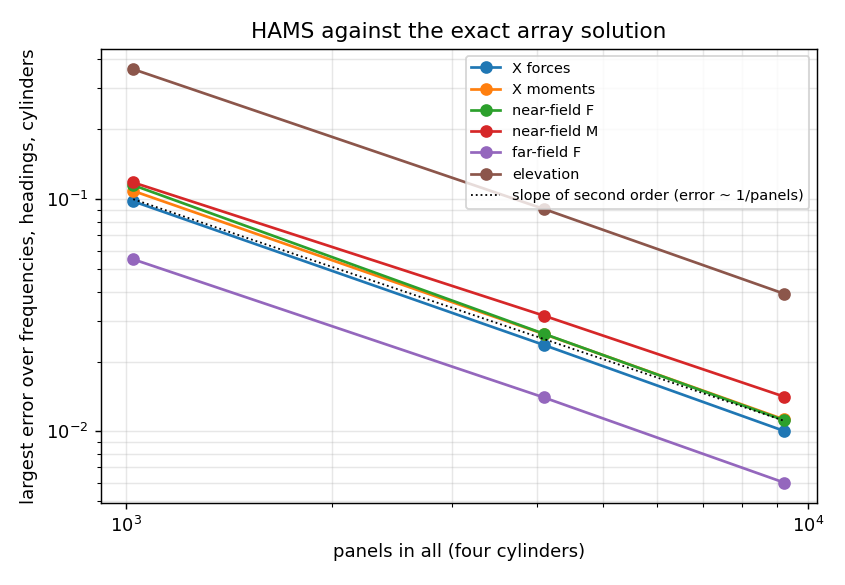
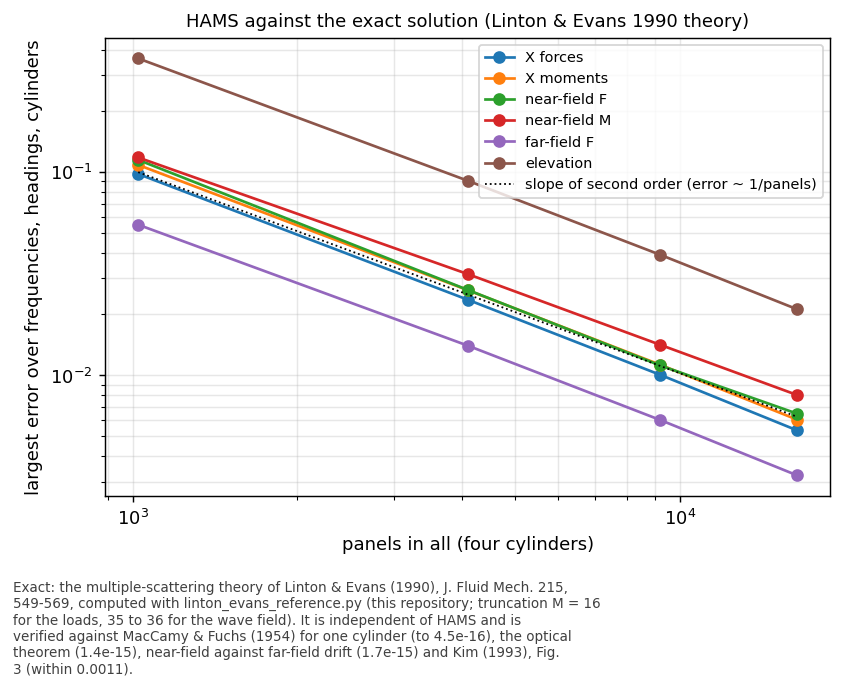
docs: Linton & Evans fourth mesh, grid field error, source of "exact"
m4 (16384 panels) continues the second-order convergence (0.54 %
exciting force, 0.32 % array drift). The wave elevation on a 1.5 m grid
(l_square_field_*) as error maps on one log scale. Every figure names
the exact reference (Linton & Evans 1990 theory computed with
linton_evans_reference.py) in its legend and a footnote with its
truncation and checks.

diff --git a/pre_postprocessing_python/SecondOrder/linton_evans_reference.py b/pre_postprocessing_python/SecondOrder/linton_evans_reference.py
@@ -204,6 +204,23 @@ FREQUENCIES, HEADINGS, FIELD_POINTS = _case_constants()
 LOAD_ORDER = 16
 
 
+# What "exact" is, in every figure: the legend names the method, the footnote (exact_note) its source and checks
+EXACT_LEG = "exact: Linton & Evans (1990) theory, linton_evans_reference.py"
+EXACT_NOTE = ("Exact: the multiple-scattering theory of Linton & Evans (1990), J. Fluid Mech. 215, 549-569, computed with "
+              "linton_evans_reference.py (this repository; truncation M = 16 for the loads, 35 to 36 for the wave field). It is "
+              "independent of HAMS and is verified against MacCamy & Fuchs (1954) for one cylinder (to 4.5e-16), the optical "
+              "theorem (1.4e-15), near-field against far-field drift (1.7e-15) and Kim (1993), Fig. 3 (within 0.0011).")
+
+
+def exact_note(fig):
+    """Add EXACT_NOTE under the figure, wrapped to its width (saved with bbox_inches = tight, so it is kept)."""
+    import textwrap
+    width = int(fig.get_size_inches()[0] * 13)
+    fig.text(0.01, -0.005, "\n".join(textwrap.wrap(EXACT_NOTE, width)), fontsize=7.5, va="top", ha="left",
+             color="0.25")
+
+
+
 def layout(name):
     spec = LAYOUTS[name]
     return Array(spec["centres"], spec["radii"], spec["depth"])
@@ -980,10 +997,10 @@ def plot(results, out, ref_rows):
                 for r, idx in enumerate((1, 2)):
                     ax = axes[r, j]
                     if kind == "X":
-                        ax.plot(ka, np.abs(X[:, j, idx - 1]), "k-", lw=1.2, label="exact")
+                        ax.plot(ka, np.abs(X[:, j, idx - 1]), "k-", lw=1.2, label=EXACT_LEG)
                         label = "|X_%d| / (rho g A) [m^2]" % idx
                     else:
-                        ax.plot(ka, D[:, j, idx - 1], "k-", lw=1.2, label="exact")
+                        ax.plot(ka, D[:, j, idx - 1], "k-", lw=1.2, label=EXACT_LEG)
                         ax.axhline(0.0, color="0.6", lw=0.6)
                         label = "mean F_%s / (rho g A^2) [m]" % "xy"[idx - 1]
                     for mi, (name, data) in enumerate(hams):
@@ -1004,14 +1021,15 @@ def plot(results, out, ref_rows):
             fig.tight_layout()
             path = os.path.join(out, "le_%s_beta%d.png" % ("exciting_force" if kind == "X" else "drift_per_cylinder",
                                                             heading))
-            fig.savefig(path, dpi=130)
+            exact_note(fig)
+            fig.savefig(path, dpi=130, bbox_inches="tight")
             plt.close(fig)
             written.append(path)
         fig, axes = plt.subplots(1, 2, figsize=(11, 4))
         for r in range(2):
             ax = axes[r]
-            ax.plot(ka, F[:, r], "k-", lw=1.2, label="exact far-field (Kochin)")
-            ax.plot(ka, D[:, :, r].sum(axis=1), "k:", lw=1.0, label="exact near-field, summed")
+            ax.plot(ka, F[:, r], "k-", lw=1.2, label=EXACT_LEG + ", far-field (Kochin)")
+            ax.plot(ka, D[:, :, r].sum(axis=1), "k:", lw=1.0, label="same theory, near-field summed over the cylinders")
             for mi, (name, data) in enumerate(hams):
                 xs, ys = _hams_points(data[2], r + 1, heading, h, a)
                 ax.plot(xs, ys, markers[mi % 4], ms=4, mfc="none", label=name + " far-field")
@@ -1022,7 +1040,8 @@ def plot(results, out, ref_rows):
         fig.suptitle("Four bottom-mounted cylinders, heading %g deg: mean drift of the array (MeanDriftMomentum.8)" % heading)
         fig.tight_layout()
         path = os.path.join(out, "le_drift_array_beta%d.png" % heading)
-        fig.savefig(path, dpi=130)
+        exact_note(fig)
+        fig.savefig(path, dpi=130, bbox_inches="tight")
         plt.close(fig)
         written.append(path)
     return written + plot_convergence(results, out, ref_rows)
@@ -1057,10 +1076,11 @@ def plot_convergence(results, out, ref_rows):
     ax.set_ylabel("largest error over frequencies, headings, cylinders")
     ax.grid(alpha=0.3, which="both")
     ax.legend(fontsize=8)
-    ax.set_title("HAMS against the exact array solution")
+    ax.set_title("HAMS against the exact solution (Linton & Evans 1990 theory)", fontsize=10)
     fig.tight_layout()
     path = os.path.join(out, "le_convergence.png")
-    fig.savefig(path, dpi=130)
+    exact_note(fig)
+    fig.savefig(path, dpi=130, bbox_inches="tight")
     plt.close(fig)
     return [path]
 
@@ -1092,10 +1112,11 @@ def plot_reference(out):
         ax.set_title("omega = %.2f rad/s, k a = %.2f, heading 45 deg" % (omega, sol.k * arr.radii[0]))
         ax.set_xlabel("x [m]")
         ax.set_ylabel("y [m]")
-    fig.suptitle("Exact wave field around the four cylinders (+: the HAMS field points)")
+    fig.suptitle("Exact wave field around the four cylinders (Linton & Evans 1990 theory; +: the HAMS field points)")
     fig.tight_layout()
     path = os.path.join(out, "le_reference_field.png")
-    fig.savefig(path, dpi=130)
+    exact_note(fig)
+    fig.savefig(path, dpi=130, bbox_inches="tight")
     plt.close(fig)
     written.append(path)
     omegas = np.linspace(0.36, 1.95, 160)
@@ -1120,7 +1141,8 @@ def plot_reference(out):
     fig.suptitle("Exact loads per cylinder in the square array, against one cylinder alone (MacCamy-Fuchs)")
     fig.tight_layout()
     path = os.path.join(out, "le_reference_loads.png")
-    fig.savefig(path, dpi=130)
+    exact_note(fig)
+    fig.savefig(path, dpi=130, bbox_inches="tight")
     plt.close(fig)
     written.append(path)
     fx, fy = kim_fig3()
@@ -1128,7 +1150,7 @@ def plot_reference(out):
     n = np.arange(1, 20)
     for ax, ref, pub, label in ((axes[0], fx, KIM_FIG3_X, "|F_x|"), (axes[1], fy, KIM_FIG3_Y, "|F_y|")):
         ax.plot(n, pub, "o", mfc="none", ms=9, label="Kim (1993), Fig. 3, digitised")
-        ax.plot(n, ref, "k+", ms=9, label="this reference")
+        ax.plot(n, ref, "k+", ms=9, label=EXACT_LEG)
         ax.set_ylabel(label + " / (pi rho g a h A)")
         ax.grid(alpha=0.3)
     axes[1].set_xlabel("cylinder number")
@@ -1138,7 +1160,8 @@ def plot_reference(out):
                  % max(np.max(np.abs(fx - KIM_FIG3_X)), np.max(np.abs(fy - KIM_FIG3_Y))), fontsize=10)
     fig.tight_layout()
     path = os.path.join(out, "le_reference_kim1993_fig3.png")
-    fig.savefig(path, dpi=130)
+    exact_note(fig)
+    fig.savefig(path, dpi=130, bbox_inches="tight")
     plt.close(fig)
     written.append(path)
     return written
@@ -1174,13 +1197,13 @@ def plot_linton_evans(results, out):
     diag = np.array(diag)
     fig, axes = plt.subplots(1, 2, figsize=(13, 4.8))
     ax = axes[0]
-    ax.plot(kas, total, "k-", lw=1.2, label="exact (this reference)")
+    ax.plot(kas, total, "k-", lw=1.2, label=EXACT_LEG)
     ax.plot(LE_FIG3_KA, LE_FIG3_TOTAL, "o", ms=4, mfc="none", color="tab:red",
             label="data from Linton & Evans (1990), Fig. 3, digitised")
     ax.axvspan(*LE_FIG3_BAND, color="0.92", zorder=0)
     ax2 = axes[1]
-    ax2.plot(kas, diag[:, 0], "k-", lw=1.2, label="exact, lee cylinder (L&E 2)")
-    ax2.plot(kas, diag[:, 1], "k--", lw=1.2, label="exact, weather cylinder (L&E 4)")
+    ax2.plot(kas, diag[:, 0], "k-", lw=1.2, label=EXACT_LEG + ", lee cylinder (L&E 2)")
+    ax2.plot(kas, diag[:, 1], "k--", lw=1.2, label="same theory, weather cylinder (L&E 4)")
     markers = ["s", "^", "D", "v"]
     for mi, (name, folder) in enumerate(case_folders(results) if results else []):
         X, _, far, _ = read_hams(folder)
@@ -1217,7 +1240,8 @@ def plot_linton_evans(results, out):
                  "J. Fluid Mech. 215, 549-569, Fig. 3", fontsize=10)
     fig.tight_layout()
     path = os.path.join(out, "le_linton_evans_fig3_hams.png")
-    fig.savefig(path, dpi=130)
+    exact_note(fig)
+    fig.savefig(path, dpi=130, bbox_inches="tight")
     plt.close(fig)
     return [path]
 
@@ -1297,8 +1321,8 @@ def plot_published(results, out):
     kas = np.unique(np.round(np.r_[np.arange(0.05, 3.20, 0.01), np.arange(1.40, 2.06, 0.002)], 4))
     X, Xm, D = _le_curves(kas)
     hams = _hams_le(results)
-    markers = ["s", "^", "D"]
-    hcol = ["tab:blue", "tab:orange", "tab:green"]
+    markers = ["s", "^", "D", "v"]
+    hcol = ["tab:blue", "tab:orange", "tab:green", "tab:purple"]
     written = []
 
     def published(ax, fig_name, curve):
@@ -1318,16 +1342,16 @@ def plot_published(results, out):
         fig, axes = plt.subplots(len(panels), 1, figsize=(10, 3.0 * len(panels)), sharex=True)
         for ax, curve in zip(axes, panels):
             if curve == "total":
-                ax.plot(kas, D.sum(axis=1), "k-", lw=1.2, label="exact (this reference)")
+                ax.plot(kas, D.sum(axis=1), "k-", lw=1.2, label=EXACT_LEG)
             else:
                 j = LE_TO_HERE[curve]
                 if fig_name == "Fig. 2":
-                    ax.plot(kas, X[:, j], "k-", lw=1.2, label="exact, |X . e_beta|/|F|")
+                    ax.plot(kas, X[:, j], "k-", lw=1.2, label=EXACT_LEG + ", |X . e_beta|/|F|")
                     if curve in ("cylinder 1", "cylinder 3"):
                         ax.plot(kas, Xm[:, j], "k--", lw=1.0,
-                                label="exact, (|X_x| cos b + |X_y| sin b)/|F|, the paper's form off the diagonal")
+                                label="same theory, (|X_x| cos b + |X_y| sin b)/|F|, the paper's form off the diagonal")
                 else:
-                    ax.plot(kas, D[:, j], "k-", lw=1.2, label="exact (this reference)")
+                    ax.plot(kas, D[:, j], "k-", lw=1.2, label=EXACT_LEG)
             published(ax, fig_name, curve)
             for mi, rec in enumerate(hams):
                 if curve == "total":
@@ -1336,7 +1360,7 @@ def plot_published(results, out):
                 else:
                     y = [row[LE_TO_HERE[curve]] for row in (rec["X"] if fig_name == "Fig. 2" else rec["D"])]
                     lab = rec["name"] + (" (near-field)" if fig_name == "Fig. 3" else "")
-                ax.plot(rec["ka"], y, markers[mi % 3], ms=5, color=hcol[mi % 3], label=lab)
+                ax.plot(rec["ka"], y, markers[mi % 4], ms=5, color=hcol[mi % 4], label=lab)
             ax.axvspan(1.38, 2.07, color="0.93", zorder=0)
             # the axes of the paper, extended to show the exact near-trapping extremes (2.27 in Fig. 2, -2.34 in Fig. 3);
             # f_1 goes to zero as k a goes to zero, so f/f_1 grows without bound there
@@ -1345,17 +1369,18 @@ def plot_published(results, out):
             ax.set_title(curve, fontsize=10, loc="left")
             ax.grid(alpha=0.3)
             ax.set_xlim(0.0, 3.25)
-        axes[0].legend(fontsize=7, ncol=2, loc="upper left")
+        axes[0].legend(fontsize=7, ncol=2, loc="upper left" if fig_name == "Fig. 2" else "lower right")
         axes[-1].set_xlabel("k a")
         what = "first-order force along the wave" if fig_name == "Fig. 2" else "mean drift force along the wave"
-        fig.suptitle("Four cylinders at the corners of a square, a/h = 1/2, R/h = 2, beta = pi/4: %s. Lines: exact; "
+        fig.suptitle("Four cylinders at the corners of a square, a/h = 1/2, R/h = 2, beta = pi/4: %s. Lines: exact (Linton & Evans 1990 theory, linton_evans_reference.py); "
                      "symbols: HAMS (the HAMS case, scaled by 5).\nRed circles: data from Linton, C.M. & Evans, D.V. "
                      "(1990), The interaction of waves with arrays of vertical circular cylinders,\nJ. Fluid Mech. 215, "
                      "549-569, %s, digitised (linton_evans_digitised.csv). Grey band: near-trapping."
                      % (what, fig_name), fontsize=8.5)
         fig.tight_layout(rect=(0, 0, 1, 0.94))
         path = os.path.join(out, "le_linton_evans_%s.png" % fig_name.replace(". ", "").lower())
-        fig.savefig(path, dpi=130)
+        exact_note(fig)
+        fig.savefig(path, dpi=130, bbox_inches="tight")
         plt.close(fig)
         written.append(path)
     return written
@@ -1420,8 +1445,8 @@ def plot_field_error(results, out, step=0.5):
             ex = np.abs(sol.field(pts[:, 0], pts[:, 1]))
             k = wave_number(omega, arr.depth)
             im = axes[r, 0].pcolormesh(gx, gy, exact[omega], shading="auto", cmap="viridis")
-            fig.colorbar(im, ax=axes[r, 0], label="|eta| / A, exact")
-            axes[r, 0].set_title("exact, %.2f rad/s, k a = %.2f" % (omega, k * arr.radii[0]), fontsize=9)
+            fig.colorbar(im, ax=axes[r, 0], label="|eta| / A, exact (L&E 1990 theory)")
+            axes[r, 0].set_title("exact (L&E 1990 theory), %.2f rad/s, k a = %.2f" % (omega, k * arr.radii[0]), fontsize=9)
             for c, (name, folder) in enumerate(grid_cases, start=1):
                 _, _, _, field = read_hams(folder)
                 vals = field.get(_key(omega, 45.0), {})
@@ -1432,8 +1457,9 @@ def plot_field_error(results, out, step=0.5):
                 iy = np.rint((pts[:, 1] + 40.0) / dc.LE_FIELD_STEP).astype(int)
                 emap[iy, ix] = err
                 axis = np.linspace(-40.0, 40.0, n)
-                im = axes[r, c].pcolormesh(axis, axis, emap, shading="auto", cmap="magma_r", vmin=0.0,
-                                           vmax=max(1.0, np.nanpercentile(err, 99.5)))
+                # one logarithmic scale for every mesh and frequency, so that the panels compare
+                im = axes[r, c].pcolormesh(axis, axis, np.clip(emap, 1e-3, None), shading="auto", cmap="magma_r",
+                                           norm=matplotlib.colors.LogNorm(vmin=1e-3, vmax=10.0))
                 fig.colorbar(im, ax=axes[r, c], label="| |eta_HAMS| - |eta_exact| | / A  [%]")
                 axes[r, c].set_title("%s: largest %.2f %%, median %.2f %%" % (
                     name.replace("l_square_field_", "HAMS "), np.nanmax(err), np.nanmedian(err)), fontsize=9)
@@ -1445,7 +1471,8 @@ def plot_field_error(results, out, step=0.5):
                      fontsize=10)
         fig.tight_layout()
         path = os.path.join(out, "le_field_error_grid.png")
-        fig.savefig(path, dpi=120)
+        exact_note(fig)
+        fig.savefig(path, dpi=120, bbox_inches="tight")
         plt.close(fig)
         written.append(path)
     folders = case_folders(results) if results else []
@@ -1463,7 +1490,7 @@ def plot_field_error(results, out, step=0.5):
                 errs[name] = np.array([abs(abs(vals.get(i + 1, complex("nan"))) - ex[i]) for i in range(len(pts))]) * 100
             ax = axes[r, 0]
             im = ax.pcolormesh(gx, gy, exact[omega], shading="auto", cmap="Greys", vmin=0.0)
-            fig.colorbar(im, ax=ax, label="|eta| / A, exact")
+            fig.colorbar(im, ax=ax, label="|eta| / A, exact (L&E 1990 theory)")
             finest = folders[-1][0]
             sc = ax.scatter(pts[:, 0], pts[:, 1], c=errs[finest], cmap="plasma", s=90, edgecolors="k", vmin=0.0)
             fig.colorbar(sc, ax=ax, label="| |eta_HAMS| - |eta_exact| | / A  [%%], %s" %
@@ -1488,7 +1515,8 @@ def plot_field_error(results, out, step=0.5):
                      fontsize=10)
         fig.tight_layout()
         path = os.path.join(out, "le_field_error_points.png")
-        fig.savefig(path, dpi=120)
+        exact_note(fig)
+        fig.savefig(path, dpi=120, bbox_inches="tight")
         plt.close(fig)
         written.append(path)
     return written

diff --git a/docs/second_order_validation.md b/docs/second_order_validation.md
@@ -1381,6 +1381,8 @@ This case checks the multi-body solve, and the mean drift per body, against an e
 
 The invariance check found one error while the script was written: the sign of the sway force and roll moment. Every other check had passed with that error in place, since it only enters the sin part of the force integral. The MacCamy-Fuchs check now also runs at heading 90 deg, so that it covers that part.
 
+**What "exact" means in the figures.** In every figure of this section, "exact" is the multiple-scattering theory of Linton & Evans (1990) computed with `linton_evans_reference.py` (this repository), with truncation M = 16 for the loads and 35 to 36 for the wave field. It is independent of HAMS: it uses no panels and no HAMS code. It is checked against MacCamy & Fuchs (1954) for one cylinder (to 4.5e-16), the optical theorem (1.4e-15), near-field against far-field drift (1.7e-15) and Kim (1993), Fig. 3 (within 0.0011), as in the table above. Each figure says this in its legend and footnote.
+
 **Published values.** Three published sources are compared. The values were read from the paper (Table 1) or digitised from the figures, and are stored in the script.
 
 - **Linton & Evans (1990), Table 1** (check `linton_evans_table1`). Two equal cylinders with spacing R = a/λ and heading π/6, in the long-wave limit k a → 0 (taken at k a = 10⁻³): |X_x|/|F| and |X_y|/|F| for λ = 0.1 to 0.4, eight values printed to three decimals. Seven round to the printed values. The eighth, λ = 0.3, |X_x|/|F| = 0.95350 against 0.953, sits on the rounding boundary. The largest difference is 5.0e-4.
@@ -1398,7 +1400,7 @@ The figures below redraw Linton & Evans (1990), Figs. 2 and 3, with one panel pe
 
 ![Kim (1993), Fig. 3, against the reference](figures/le_reference_kim1993_fig3.png)
 
-**The HAMS case.** Four cylinders of the bottom-mounted hull of the convergence study: radius 5 m, depth 10 m, centres (±10, ±10) m, so the centre spacing is 4 radii. Each cylinder is a wall from the waterline to the sea bed with no bottom panel, uniform rows, as in group B of the convergence study, where one such cylinder agreed with MacCamy-Fuchs within 0.12% at 4096 panels. The bodies are fixed. The mean drift is computed with `drift_methods = far near` and `velocity_method = differencing` (the closer method on that cylinder), at headings 0 and 45 deg and 17 frequencies from 0.40 to 1.90 rad/s, so k a runs from 0.19 to 1.84. That is below the first irregular frequency of a bottom-mounted circle, k a = 2.405 (2.17 rad/s here). The grid is dense at 1.75 to 1.85 rad/s, where heading 45 deg has a near-trapped mode between the cylinders: the exact mean F_x of cylinder 4 peaks at 10.6 ρ g A² at 1.79 rad/s, against 2.2 for one cylinder alone. There are 16 field points at z = 0, in the gaps and around the array. The meshes have 256, 1024 and 2304 panels per cylinder (1024, 4096 and 9216 in all). `drift_convergence.py --linton-evans` writes and runs the cases (`l_square_diff_m1` to `_m3`), and `linton_evans_reference.py compare` and `plot` compare them.
+**The HAMS case.** Four cylinders of the bottom-mounted hull of the convergence study: radius 5 m, depth 10 m, centres (±10, ±10) m, so the centre spacing is 4 radii. Each cylinder is a wall from the waterline to the sea bed with no bottom panel, uniform rows, as in group B of the convergence study, where one such cylinder agreed with MacCamy-Fuchs within 0.12% at 4096 panels. The bodies are fixed. The mean drift is computed with `drift_methods = far near` and `velocity_method = differencing` (the closer method on that cylinder), at headings 0 and 45 deg and 17 frequencies from 0.40 to 1.90 rad/s, so k a runs from 0.19 to 1.84. That is below the first irregular frequency of a bottom-mounted circle, k a = 2.405 (2.17 rad/s here). The grid is dense at 1.75 to 1.85 rad/s, where heading 45 deg has a near-trapped mode between the cylinders: the exact mean F_x of cylinder 4 peaks at 10.6 ρ g A² at 1.79 rad/s, against 2.2 for one cylinder alone. There are 16 field points at z = 0, in the gaps and around the array. The meshes have 256, 1024, 2304 and 4096 panels per cylinder (1024, 4096, 9216 and 16384 in all). `drift_convergence.py --linton-evans` writes and runs the cases (`l_square_diff_m1` to `_m4`, and `l_square_field_m1` to `_m3` for the wave field on a grid, below), and `linton_evans_reference.py compare` and `plot` compare them.
 
 ![Exact loads per cylinder against one cylinder alone](figures/le_reference_loads.png)
 
@@ -1414,30 +1416,35 @@ The figures below redraw Linton & Evans (1990), Figs. 2 and 3, with one panel pe
 
 At 0.95 rad/s, X agrees within 1.9% for every body, with the right phase, body order and moment centre. A sign, conjugation or body-order error would give errors of order 1.
 
-**HAMS against the reference on Snellius.** The three cases ran on Snellius (`fat_genoa`, 24 threads, ifx 2024a) in November 2026, built from the commit that added this case. Wall time: 11 s, 103 s and 463 s; peak memory: 0.14, 1.2 and 5.6 GB. The table gives the largest error of each quantity over the 17 frequencies, both headings and the four cylinders, with the error measures of `compare` (python_scripts.md):
+**HAMS against the reference on Snellius.** The four cases ran on Snellius (`fat_genoa`, 24 threads, ifx 2024a) in November 2026, built from the commit that added this case (the Fortran code is the same in the later commits). Wall time: 11 s, 103 s, 463 s and 1623 s; peak memory: 0.14, 1.2, 5.6 and 17.4 GB. The table gives the largest error of each quantity over the 17 frequencies, both headings and the four cylinders, with the error measures of `compare` (python_scripts.md):
 
 | Mesh (panels in all) | X forces | X moments | near-field F | near-field M | far-field F | elevation |
 | :--- | ---: | ---: | ---: | ---: | ---: | ---: |
 | m1 (1024) | 9.8e-2 | 1.09e-1 | 1.15e-1 | 1.18e-1 | 5.5e-2 | 3.6e-1 |
 | m2 (4096) | 2.4e-2 | 2.6e-2 | 2.6e-2 | 3.2e-2 | 1.4e-2 | 9.1e-2 |
 | m3 (9216) | 1.0e-2 | 1.1e-2 | 1.1e-2 | 1.4e-2 | 6.0e-3 | 3.9e-2 |
+| m4 (16384) | 5.4e-3 | 6.1e-3 | 6.5e-3 | 8.0e-3 | 3.2e-3 | 2.1e-2 |
 
-- **Convergence.** Every error falls by 3.7 to 4.4 times from m1 to m2 (twice the panels per side) and by 2.2 to 2.4 times from m2 to m3 (1.5 times), so HAMS converges to the exact solution at second order in the panel size. That covers the multi-body solve, the exciting loads per body, the elevation and the mean drift per body and of the array.
-- **Largest errors at m3:** X 1.0% (1.78 rad/s, heading 45 deg), near-field F 1.1% (1.60 rad/s), far-field F 0.6% (1.82 rad/s), elevation 0.039 per unit amplitude (1.80 rad/s). All are in or next to the near-trapping band, where the field between the cylinders is steepest. F_z and M_z near-field, zero for this hull, are under 1e-10 of the force, and far-field M_z of the array, zero by symmetry at both headings, is under 3e-6 of |F| times 10 m.
-- **Near-trapping peak.** Mean F_x on each cylinder at heading 45 deg, per ρ g A² (m1, m2, m3, exact):
+- **Convergence.** Every error falls by 3.7 to 4.4 times from m1 to m2 (twice the panels per side) by 2.2 to 2.4 times from m2 to m3 (1.5 times) and by 1.73 to 1.87 times from m3 to m4 (4/3 times, where second order gives 1.78), so HAMS converges to the exact solution at second order in the panel size. That covers the multi-body solve, the exciting loads per body, the elevation and the mean drift per body and of the array.
+- **Largest errors at m4:** X 0.54% (1.78 rad/s, heading 45 deg), near-field F 0.65% (1.60 rad/s), far-field F 0.32% (1.82 rad/s), elevation 0.021 per unit amplitude (1.80 rad/s). All are in or next to the near-trapping band, where the field between the cylinders is steepest. F_z and M_z near-field, zero for this hull, are under 1e-10 of the force, and far-field M_z of the array, zero by symmetry at both headings, is under 3e-6 of |F| times 10 m.
+- **Near-trapping peak.** Mean F_x on each cylinder at heading 45 deg, per ρ g A² (m1, m2, m3, m4, exact):
 
 | rad/s | cylinder 1 | cylinder 3 | cylinder 4 |
 | ---: | :--- | :--- | :--- |
-| 1.75 | 2.332, 2.019, 1.957, 1.906 | -2.150, -1.998, -1.967, -1.943 | 8.218, 8.064, 8.022, 7.983 |
-| 1.78 | 5.602, 5.080, 4.961, 4.859 | -4.499, -4.422, -4.396, -4.373 | 10.284, 10.437, 10.435, 10.420 |
-| 1.80 | 7.995, 7.726, 7.633, 7.540 | -4.753, -5.039, -5.077, -5.099 | 9.259, 9.957, 10.059, 10.120 |
-| 1.82 | 8.575, 8.790, 8.788, 8.761 | -3.221, -3.719, -3.807, -3.868 | 6.122, 6.898, 7.035, 7.129 |
+| 1.75 | 2.332, 2.019, 1.957, 1.935, 1.906 | -2.150, -1.998, -1.967, -1.956, -1.943 | 8.218, 8.064, 8.022, 8.005, 7.983 |
+| 1.78 | 5.602, 5.080, 4.961, 4.917, 4.859 | -4.499, -4.422, -4.396, -4.386, -4.373 | 10.284, 10.437, 10.435, 10.431, 10.420 |
+| 1.80 | 7.995, 7.726, 7.633, 7.595, 7.540 | -4.753, -5.039, -5.077, -5.088, -5.099 | 9.259, 9.957, 10.059, 10.090, 10.120 |
+| 1.82 | 8.575, 8.790, 8.788, 8.781, 8.761 | -3.221, -3.719, -3.807, -3.836, -3.868 | 6.122, 6.898, 7.035, 7.081, 7.129 |
 
   HAMS converges to the exact peak (10.42 at 1.78 rad/s on cylinder 4, five times the drift on one cylinder alone), not to the smoother published curves.
 
-- **Wave elevation.** At the 16 field points, | |η_HAMS| − |η_exact| | / A is at most 0.276, 0.067 and 0.027% at 1.10 rad/s and 4.41, 1.09 and 0.49% at 1.70 rad/s (m1, m2, m3; medians 0.008 and 0.083% at m3). The error is given over the incident amplitude A because |η| is near zero in places, where a relative error has no meaning. The elevation error of the table above (0.039 at m3) is that of the complex elevation, phase included, and its largest value is at 1.80 rad/s.
+- **Wave elevation.** At the 16 field points, | |η_HAMS| − |η_exact| | / A is at most 0.276, 0.067, 0.027 and 0.017% at 1.10 rad/s and 4.41, 1.09, 0.49 and 0.28% at 1.70 rad/s (m1 to m4; medians 0.006 and 0.046% at m4). The error is given over the incident amplitude A because |η| is near zero in places, where a relative error has no meaning. The elevation error of the table above (0.021 at m4) is that of the complex elevation, phase included, and its largest value is at 1.80 rad/s.
 
 ![Elevation error at the field points](figures/le_field_error_points.png)
+
+- **Wave elevation on a grid.** The cases `l_square_field_m1` to `_m3` repeat m1 to m3 at 1.10 and 1.70 rad/s, heading 45 deg, with 2746 field points on a 1.5 m grid over the 80 m by 80 m box around the array (0.5 m clear of each wall). The largest and median | |η_HAMS| − |η_exact| | / A are 1.06 and 0.08%, 0.26 and 0.02%, 0.11 and 0.01% at 1.10 rad/s, and 6.8 and 0.91%, 1.7 and 0.22%, 0.73 and 0.09% at 1.70 rad/s (m1, m2, m3). The error is largest next to the walls and in the lee of the array along the wave, and it falls with the mesh everywhere.
+
+![Elevation error on a grid](figures/le_field_error_grid.png)
 
 ![Exciting force per cylinder, heading 45 deg](figures/le_exciting_force_beta45.png)
 
@@ -1445,9 +1452,9 @@ At 0.95 rad/s, X agrees within 1.9% for every body, with the right phase, body o
 
 ![Errors against panels](figures/le_convergence.png)
 
-**Cost.** The model of `drift_convergence.py` estimated 2.0 job hours at 32 threads for the three cases. They took 0.16 job hours at 24 threads (9.6 min in all, plus a 1.7 min build), 12 times less. The model was fitted to single hulls, and it overestimates these runs.
+**Cost.** The model of `drift_convergence.py` estimated 2.0 job hours at 32 threads for m1 to m3. They took 0.16 job hours at 24 threads (9.6 min in all, plus a 1.7 min build), 12 times less; m4 took 27 min (10.9 core-hours) against 9.3 h in the model. The model was fitted to single hulls, and it overestimates these runs. The grid runs took 6.1 min in all (2.4 core-hours); the field points are not in the model.
 
-**Limits of this check.** It covers fixed bodies only: the reference solves the diffraction problem, not the radiation problem. It also covers vertical walls only, so it tests nothing of a bottom or a bilge, and a single layout at two headings. The meshes go to 2304 panels per cylinder; a finer mesh was not run.
+**Limits of this check.** It covers fixed bodies only: the reference solves the diffraction problem, not the radiation problem. It also covers vertical walls only, so it tests nothing of a bottom or a bilge, and a single layout at two headings. The meshes go to 4096 panels per cylinder.
 
 ## Open items
 

diff --git a/docs/python_scripts.md b/docs/python_scripts.md
@@ -180,7 +180,7 @@ python make_mesh.py box --lx 20 --ly 10 --draft 5 --nx 10 --ny 5 --nz 4 --out Hu
 
 **`SecondOrder/make_drift_fixtures.py`** regenerates all the `test/data/drift_*` inputs, including `ControlFile.in` and `SecondOrder.in`. See `test/data/drift_cyl/README.md`.
 
-**`SecondOrder/drift_convergence.py`** generates and runs the mean drift convergence study of [Second-order validation](second_order_validation.md#mean-drift-convergence-study) (HAMS-MREL, and Nemoh as a separate program), writes Slurm scripts for it, and collects the results into a table. Run it with `list` to see the cases. Its `collect` step needs `scipy`, for the MacCamy-Fuchs value. With `--linton-evans` it covers the [Linton & Evans array](second_order_validation.md#linton--evans-array-four-bottom-mounted-cylinders) (`l_square_diff_m1` to `_m3`: four bottom-mounted cylinders, 256, 1024 and 2304 panels per cylinder, fixed, `drift_methods = far near`, with 16 field points; `l_square_field_m1` to `_m3`: the same meshes at 1.10 and 1.70 rad/s, heading 45 deg, with 2746 field points on a 1.5 m grid, `le_field_grid`). With `--qtf-potential` it covers the cases of the [QTF potential part](second_order_validation.md#qtf-potential-part):
+**`SecondOrder/drift_convergence.py`** generates and runs the mean drift convergence study of [Second-order validation](second_order_validation.md#mean-drift-convergence-study) (HAMS-MREL, and Nemoh as a separate program), writes Slurm scripts for it, and collects the results into a table. Run it with `list` to see the cases. Its `collect` step needs `scipy`, for the MacCamy-Fuchs value. With `--linton-evans` it covers the [Linton & Evans array](second_order_validation.md#linton--evans-array-four-bottom-mounted-cylinders) (`l_square_diff_m1` to `_m4`: four bottom-mounted cylinders, 256, 1024, 2304 and 4096 panels per cylinder, fixed, `drift_methods = far near`, with 16 field points; `l_square_field_m1` to `_m3`: the same meshes at 1.10 and 1.70 rad/s, heading 45 deg, with 2746 field points on a 1.5 m grid, `le_field_grid`). With `--qtf-potential` it covers the cases of the [QTF potential part](second_order_validation.md#qtf-potential-part):
 
 - `q_sharp_{fixed,free}_src_m1` to `_m4`: the sharp cylinder with `qtf_terms = body`, and `nemoh_sharp_{fixed,free}_m1`, `_m2` with Nemoh's DUOK + HASBO.
 - `q_sharp_free_g2p5_*`, `q_sharp_free_g3_*` (and `q_sharp_free_g2p5w_*`, `q_sharp_free_g3w_*` with `qtf_edge_weights = on`), m1 and m2: rows graded towards the bottom edge by a power law.
